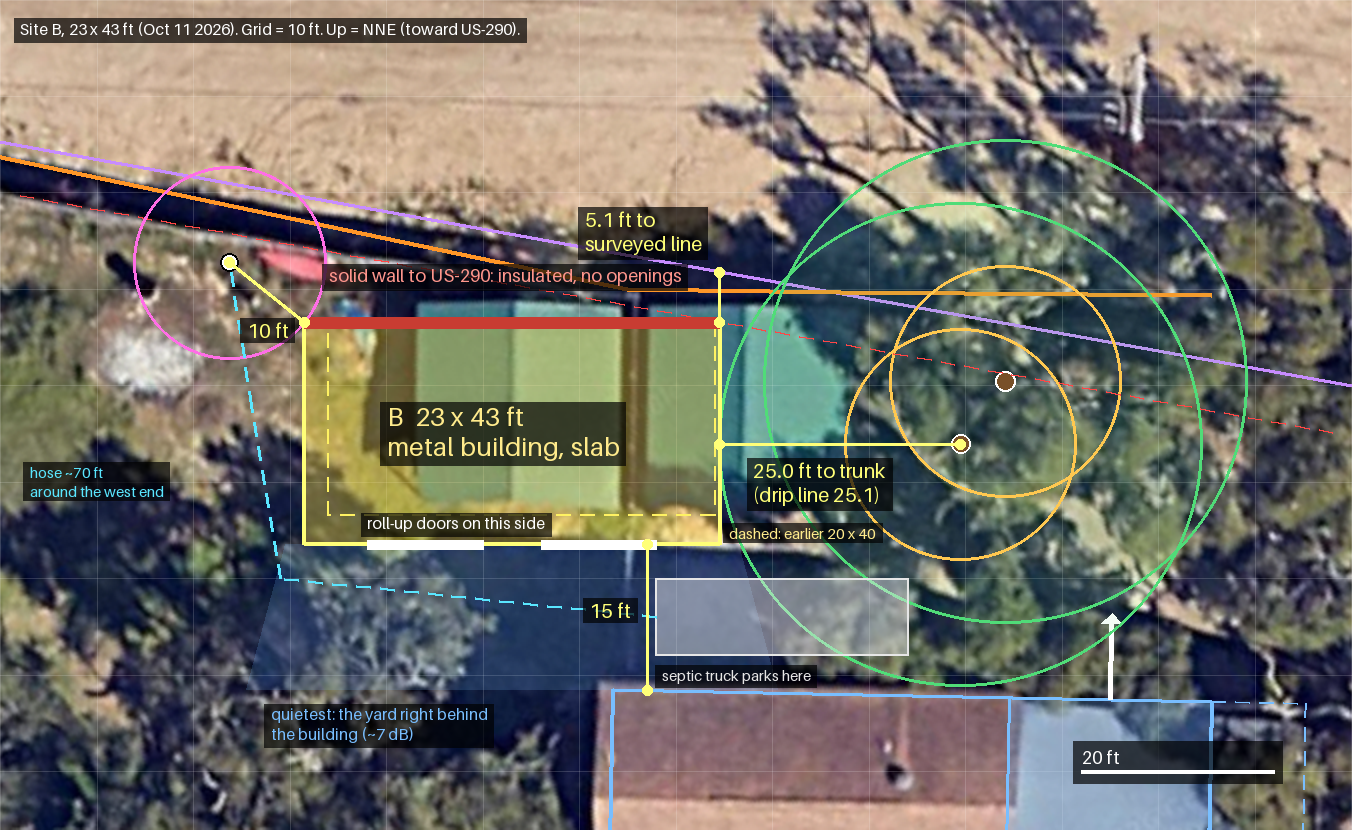
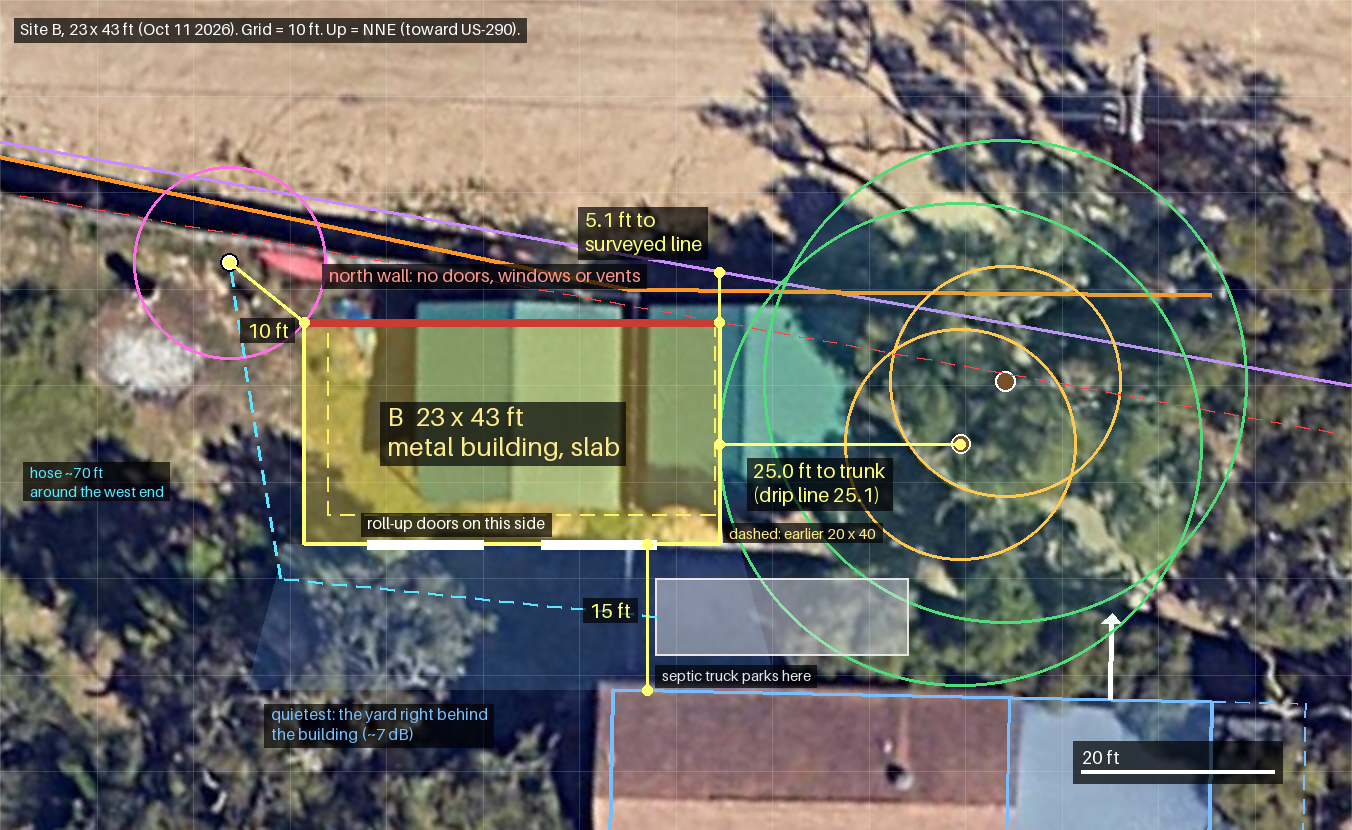
Record the retail and apartments behind the back line; relabel B's north wall
The owner sent the leasing page for the construction next door. The flyer and
the City of Austin site-plan and TDLR records show two lots: a one-story,
three-building retail strip (Scenic Brook Plaza, SP-2019-0411D) along the
frontage road, which looks like the lot right behind us, and the 40-acre
Granada Ridge apartments (SP-2018-0138D, 372 units per the state filing)
further south-west. Notes get a dated section with what it means for
screening, noise and light, the 54,068 vehicles/day US-290 count, and which
plan sheets to pull. The Zillow figures for the neighboring parcels are gone
from the survey bullets, per the repo's privacy rule.

On the site B map, the red line along the north side is the building's own
metal wall, kept free of openings for noise. Its label now says so, so it
can't be read as the dropped CMU wall.

Claude-Session: https://claude.ai/code/session_01DDx3ED6GLpo1Endgi9HoEQ

Changed region(s): [[0.2485, 0.3012, 0.5281, 0.3614]]

diff --git a/tools/site_b_plan.py b/tools/site_b_plan.py
@@ -4,8 +4,8 @@
 # ///
 """Site B close-up: the chosen 23 x 43 metal building and its clearances.
 
-Shows the footprint (the earlier 20 x 40 dashed), the solid highway-side wall, where doors
-go, the sound shadow toward the house, the septic truck's parking spot and hose run, and the
+Shows the footprint (the earlier 20 x 40 dashed), the north wall that stays free of openings,
+where doors go, the sound shadow toward the house, the septic truck's parking spot and hose run, and the
 distances that set the footprint. Same lot-aligned foot grid as site_plan.py.
 
 Run: uv run tools/site_b_plan.py
@@ -68,7 +68,7 @@ def main() -> None:
 
     plan.poly(B_OLD, YELLOW, width=2, dash=True)
     plan.poly(B, YELLOW, fill=(255, 220, 60, 95), width=4)
-    plan.line([B[0], B[1]], WALL_RED, width=12)  # solid highway-side wall
+    plan.line([B[0], B[1]], WALL_RED, width=8)  # north wall of the building itself: no openings (noise)
     for x0 in (156, 174):  # suggested roll-up doors on the south side
         plan.line([(x0, BY1), (x0 + 12, BY1)], WHITE, width=10)
 
@@ -88,7 +88,7 @@ def main() -> None:
     plan.dim((185, BY1), (185, house_north_y(185)), f"{to_house:.0f} ft", at=(179, 160))
 
     plan.label(158, 139.5, "B  23 x 43 ft\nmetal building, slab", fill=(255, 235, 140), size=26)
-    plan.label(152, 125.4, "solid wall to US-290: insulated, no openings", fill=(255, 150, 140), size=18)
+    plan.label(152, 125.4, "north wall: no doors, windows or vents", fill=(255, 150, 140), size=18)
     plan.label(156, 151.2, "roll-up doors on this side", fill=WHITE, size=16)
     plan.label(193.5, 152.3, "dashed: earlier 20 x 40", fill=(255, 235, 140), size=15)
     plan.label(186.5, 167, "septic truck parks here", fill=(230, 230, 230), size=15)

diff --git a/site/notes.md b/site/notes.md
@@ -67,14 +67,14 @@ How it lines up with what we've seen:
   house, and the plat's well is near its west end.
 - The big open lawn in the zoomed-out aerial, south-west of the house, is mostly the
   **neighbor's** lot. Our back yard is the smaller lawn west of the house.
-- The land **behind the back (west) line is being developed into apartments and retail**
-  (Broadstone Scenic Brook on the CAD map). The overhead electric line that ran along our
-  back line went with it.
-- That parcel (~$1.31M on Zillow) is now **completely cleared of trees** (owner, Oct
-  2026). The aerial still shows woods there, so the back yard is more exposed than it
-  looks: afternoon sun, wind, views and noise from the west. It runs behind the whole
-  row of Candelaria lots and also fronts US-290 further west. Past it, the big parcel
-  to the south-west (~$12.3M on Zillow) is already graded with streets.
+- The land **behind the back (west) line is being developed into retail and apartments**
+  (the Broadstone Scenic Brook subdivision on the CAD map). The overhead electric line that
+  ran along our back line went with it. See "The development behind the back line" below.
+- The parcel directly behind us is now **completely cleared of trees** (owner, Oct 2026). The
+  aerial still shows woods there, so the back yard is more exposed than it looks: afternoon
+  sun, wind, views and noise from the west. It runs behind the whole row of Candelaria lots
+  and also fronts US-290 further west; it looks like the retail lot. Past it, the big
+  parcel to the south-west (the 40-acre apartment lot) is already graded with streets.
 - **North of our US-290 line is the highway right-of-way.** The graded dirt is the US-290
   construction, not the apartment site; concrete barriers and pipe are staged there. The
   1991 plat's Lot 178 has become highway land. CAD's land area still matches the plat, so
@@ -432,18 +432,55 @@ For scale: ~3 dB is just noticeable, 5 dB is clearly noticeable, and 10 dB sound
 - **At the house**, the north-facing windows and doors are often the cheapest big gain:
   laminated or dual-pane glass with different pane thicknesses, and sealed frames.
 
+## The development behind the back line (Oct 11 2026)
+
+From the retail's leasing flyer (https://www.cldrealty.com/properties/scenic-brook-plaza,
+from the owner) and the City of Austin site-plan and TDLR (state accessibility) records. Both
+lots are in Austin's **2-mile ETJ and the Barton Springs Zone**, so the City reviewed their
+site plans. The plat is Broadstone Scenic Brook Amended, Lots 1 & 2, Block A.
+
+| | Retail: Scenic Brook Plaza | Apartments: Granada Ridge |
+|---|---|---|
+| Lot | Lot 1A, 8313 W US 290 | Lot 2A, 8327 W US 290, 40 ac |
+| Where | Along the US-290 frontage road, from Scenic Brook Dr east toward us | South-west of the retail |
+| What | Three one-story retail buildings, 19,735 sq ft in all, in a row with parking on both sides and a loop drive; pylon sign on US-290 | 372 units in the state filing for the leasing office; the flyer says ~550 |
+| Tenants so far | A drive-thru at the west end (by Scenic Brook Dr); restaurants with patios, a nail spa, a liquor store, and a dentist at the east end | |
+| City site plan | SP-2019-0411D, approved Dec 21 2021; 32% impervious cover | SP-2018-0138D, approved May 6 2019; 24.1% impervious cover |
+| Opening | Delivery Q3 2026 (flyer); the state filing says complete Nov 1 2026 | Leasing office Jan 31 2027; amenity building listed through Jan 2028 |
+
+- **The neighbor right behind us is most likely the retail lot, not the apartments.** The
+  retail is one story, so a 6–8 ft solid fence plus the existing trees hides most of it from
+  the yard. The apartments are further south-west. Their distance and floor count still need
+  their site plan, so treat the screen heights under "Back line" as the worst case.
+- **Commercial noise and light:** parking-lot lights, early-morning trash and delivery
+  trucks, rooftop HVAC, and evening customers (liquor store, restaurants). The drive-thru
+  speaker is at the far (west) end. The flyer's plan seems to show two dumpster enclosures on
+  the south drive, one near the east end. Find out where they sit relative to our line.
+- **Traffic:** the flyer puts US-290 here at **54,068 vehicles/day**, and says the Oak Hill
+  Parkway work finishes in late 2026. The new Scenic Brook Dr interchange has ramps in both
+  directions. On the flyer's map, the eastbound on-ramp and the frontage road toward FM 1826
+  run east from the retail past our US-290 side, so traffic speeding up to merge passes the
+  lot.
+- **Get the plan sheets from the City** (Austin Development Services, the two SP numbers).
+  Look for the east boundary: any fence or wall, landscape buffer, the lighting
+  (photometric) plan, dumpster and loading spots, and drainage ponds. For the apartments,
+  look for building heights and setbacks. We're outside the city limits, so the City's
+  compatibility buffer probably wasn't required along our line.
+- **Barton Springs Zone:** our lot is probably in it too. Ask Travis County whether that
+  limits impervious cover (the slab and the circle drive).
+
 ## Plan: make the house feel less exposed (Oct 11 2026)
 
-The house feels exposed to US-290 and to the apartments going up behind it. The goal is to
-cut noise, block views and protect the house's value. No single part solves it; the shed is
-one part.
+The house feels exposed to US-290 and to the retail and apartments going up behind it. The
+goal is to cut noise, block views and protect the house's value. No single part solves it;
+the shed is one part.
 
 | Part | What it does | Limits |
 |---|---|---|
 | **Windows and doors** (north and west walls first) | The biggest noise cut indoors | One leaky window or door spoils a room |
 | **Building B** | Yard shield, ~7 dB right behind it; blocks the view from the old carport area | Only ~1–3.5 dB at the house |
 | **Wall along US-290** | Hides the road; ~4–6 dB, ~7–8 dB at 12 ft with a return along Candelaria | Ends leak; see the constraints below |
-| **Back-line screen** | Hides the apartments from the yard at ground level | Upper floors need tree height |
+| **Back-line screen** | Hides the retail and apartments from the yard at ground level | Upper floors need tree height |
 | **Evergreens, water feature** | Visual screen, and sound masking near the patio | Little real dB |
 
 A rough rule from appraisal studies is that highway noise costs ~0.5% of home value per dB.
@@ -464,10 +501,12 @@ An 8 ft solid wall makes the road disappear from the ground floor and yard and h
 cars from the 2nd floor. 10–12 ft hides nearly everything. The open end at Candelaria stays
 visible unless the wall returns along it.
 
-### Back line (apartments)
+### Back line (retail and apartments)
 
 Wall height at the back line needed to hide our yard and house (~60–130 ft inside the line)
-from the apartments' windows 20–40 ft past the line:
+from apartment windows 20–40 ft past the line. The lot right behind us looks like the
+one-story retail (see "The development behind the back line"), so this is the worst case
+until the apartments' site plan shows how far off and how tall they are.
 
 | Apartment window | Screen height at the back line |
 |---|---|
@@ -480,11 +519,11 @@ from the apartments' windows 20–40 ft past the line:
   cut their roots, so water in droughts and have an arborist look at them.
 - **Screens near where you sit work best.** A tree, pergola or tall evergreens by the patio
   block more of the view per foot of height than a wall 130 ft away.
-- **Get the apartments' site plan** from whoever reviewed it (Travis County, or the City if
-  that lot is in city limits). It shows any required fence, buffer or landscaping, building
-  heights and setbacks, parking-lot lighting, and dumpster and HVAC locations. We're outside
-  city limits, so Austin's compatibility screening probably doesn't protect us. Don't count
-  on the developer's fence until the plan shows it.
+- **Get both site plans from the City of Austin**, which reviewed them as ETJ cases:
+  SP-2019-0411D (retail) and SP-2018-0138D (apartments). They show any required fence,
+  buffer or landscaping, building heights and setbacks, parking-lot lighting, and dumpster
+  and HVAC locations. We're outside city limits, so Austin's compatibility screening probably
+  doesn't protect us. Don't count on the developer's fence until the plan shows it.
 
 #### Back-line trees (Oct 11 2026)
 
@@ -593,11 +632,11 @@ line now takes full west sun. The area has heavy deer and oak wilt.
 | **House** north wall | ~19 ft south of the old canopy footprint |
 | **Well** (1991 plat) | Near the NW corner; if it's still there, don't build over it and keep access for pump service |
 | **Back-line easement** | 7.5' / 10' utility easement, still on record even though the overhead line is gone: no structures in it |
-| **Neighbor behind (west)** | Cleared; apartments + retail under construction. Think about screening, noise, drainage changes along the back line, and who owns the new fence. Our trees near the back line may have lost roots to the clearing, so watch for stress or dieback. |
+| **Neighbor behind (west)** | Cleared; retail (Scenic Brook Plaza) right behind, apartments (Granada Ridge) beyond, both under construction. Think about screening, noise, drainage changes along the back line, and who owns the new fence. Our trees near the back line may have lost roots to the clearing, so watch for stress or dieback. |
 | **Buried utilities** | The house's electric feed may have been rerouted underground when the back-line overhead came down. **Call 811 (Texas811) before digging** footings. |
 | **Front building line** | 45 ft from Candelaria Dr: no structures in front of it, so no carport in front of the garage |
 | **Drive** from Candelaria Dr | Route and clearance into the site to be confirmed (shots 16–17) |
-| **Jurisdiction** | Outside Austin city limits (probably the ETJ): permits go through Travis County, not the City. City tree rules shouldn't apply, but the oaks' roots still need protecting. |
+| **Jurisdiction** | Outside Austin city limits, probably in the ETJ (the lots next door are in Austin's 2-mile ETJ and the Barton Springs Zone): permits go through Travis County, not the City. City tree rules shouldn't apply, but the oaks' roots still need protecting. |
 
 ## Map frame
 
@@ -626,3 +665,5 @@ line now takes full west sun. The area has heavy deer and oak wilt.
   - the **Granada Hills Amended plat** (building lines and utility easements), from the Travis County Clerk
   - the **septic inspection report or permit**
   - the **title commitment** (deed restrictions)
+  - the **site plans next door**, SP-2019-0411D (retail) and SP-2018-0138D (apartments), from
+    City of Austin Development Services
